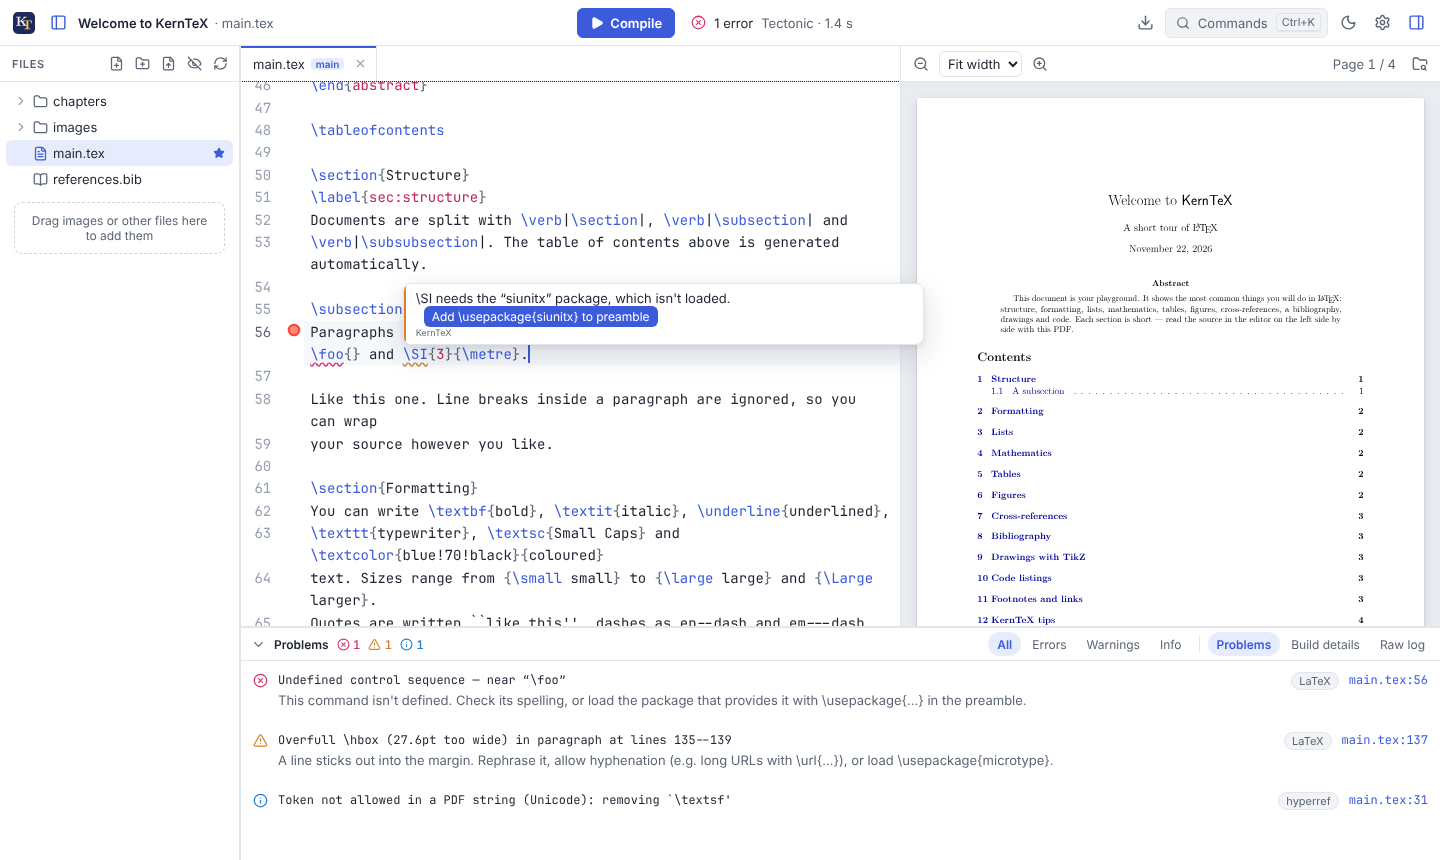
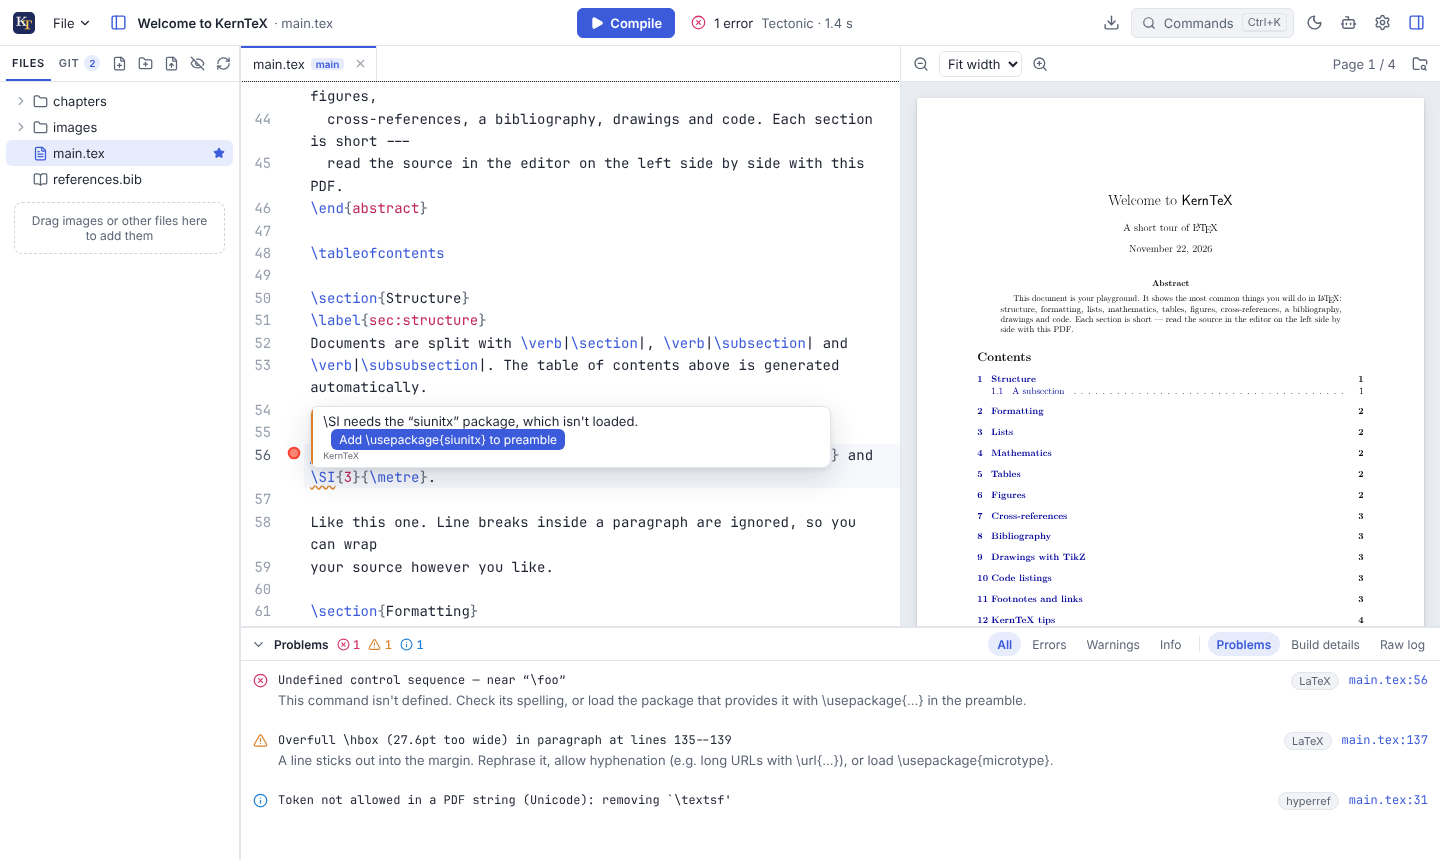
Take README and Store screenshots automatically
The screenshots were taken by hand and no longer showed the current UI
(no File menu, no Git tab). `npm run screenshots` now drives the browser
mock with Playwright through eight scenes and writes the README images
(docs/screenshots, 1440×860) and the Microsoft Store images (docs/store,
1920×1080). Two new scenes: the Git tab with a diff, and the AI
assistants dialog. Clock, locale, time zone and the mock's build time
are fixed, so an unchanged UI gives byte-identical pictures.

The Screenshots workflow runs the script after every release tag and on
demand, and opens a pull request when the pictures changed.

The mock's "last commit" now differs from the welcome project in one
heading and sentence, so the Git diff looks like a real small change.

Claude-Session: https://claude.ai/code/session_01PD3CweD286vQoTenQNSVkC

diff --git a/src/lib/mock/backend.ts b/src/lib/mock/backend.ts
@@ -93,7 +93,9 @@ async function compile(req: CompileRequest): Promise<CompileResult> {
     diagnostics.push({ severity: "info", source: "hyperref", file: "main.tex", line: 31, message: "Token not allowed in a PDF string (Unicode): removing `\\textsf'", hint: null });
   }
   const ok = !diagnostics.some((d) => d.severity === "error");
-  return { ok, canceled: false, pdfPath: `${ROOT}/.kerntex/out/main.pdf`, diagnostics, durationMs: Math.round(performance.now() - start), log: "This is a mock log.\n(./main.tex\nLaTeX Warning: ...\n)", engineLabel: req.engine === "tectonic" ? "Tectonic" : "latexmk (pdfLaTeX)", details: sampleDetails as BuildDetails };
+  // The simulated time, not the measured one, so screenshots don't vary between runs.
+  const durationMs = stages.reduce((sum, [, , ms]) => sum + ms, 0);
+  return { ok, canceled: false, pdfPath: `${ROOT}/.kerntex/out/main.pdf`, diagnostics, durationMs, log: "This is a mock log.\n(./main.tex\nLaTeX Warning: ...\n)", engineLabel: req.engine === "tectonic" ? "Tectonic" : "latexmk (pdfLaTeX)", details: sampleDetails as BuildDetails };
 }
 
 export async function invoke<T>(cmd: string, args: Record<string, any> = {}): Promise<T> {
@@ -237,7 +239,8 @@ export async function listen(event: string, cb: (p: unknown) => void) {
 
 const gitRepo = { repo: !new URLSearchParams(location.search).has("nogit"), remoteUrl: "https://github.com/demo/welcome-to-kerntex.git" as string | null, ahead: 0, identity: true };
 const committed = new Map(files);
-committed.set("main.tex", welcomeTex.replace("\\section{", "\\section{Old ").replace(/\n[^\n]*\n/, "\n"));
+// The last commit had an older heading and sentence: a small, typical diff.
+committed.set("main.tex", welcomeTex.replace("\\section{Structure}", "\\section{Document structure}").replace("The table of contents above is generated automatically.", "The table of contents is generated."));
 committed.delete("chapters/appendix.tex");
 let lastCommit = { hash: "3f2c1ab", subject: "Add bibliography", time: Math.floor(Date.now() / 1000) - 7200 };
 let gitCancel = false;

diff --git a/docs/store-listing.md b/docs/store-listing.md
@@ -97,6 +97,10 @@ Expected result: **3+ / Everyone**.
 | `4-figures.png` | Preview images and insert a figure with one click |
 | `5-build-details.png` | See the engine and every package your document uses |
 | `6-command-palette.png` | Every action one shortcut away |
+| `7-git.png` | See what changed, then commit and push in one click |
+| `8-ai-assistants.png` | Let Claude, Cursor or VS Code help — edits you see and can undo |
+
+Regenerate them with `npm run screenshots` (see [CONTRIBUTING.md](../CONTRIBUTING.md#screenshots)).
 
 **Store logos** (*Bilder für die Store-Anzeige*): optional, but upload them — otherwise the Store scales up the 50×50 logo from the package. Files in `docs/store/logos/`: `logo-300x300.png` (app tile, shown in the Store on Windows 10/11), `logo-150x150.png`, `logo-71x71.png`. For a larger 1:1 box art use `assets/logo.png` (1024×1024).
 
@@ -152,7 +156,7 @@ Add the language under *Store listings → Manage additional languages → Germa
 12. Vorlagen für Artikel, Abschlussarbeiten, Präsentationen und Briefe
 13. Kostenlos und Open Source, geschrieben in Rust – kein Konto, kein Tracking
 
-**Screenshot-Beschriftungen:** 1 „Dateibaum, Editor und Live-PDF nebeneinander“ · 2 „Dunkler Modus, genauso sorgfältig gestaltet“ · 3 „Fehler mit Lösung – fehlende Pakete per Klick ergänzt“ · 4 „Bilder ansehen und mit einem Klick als Abbildung einfügen“ · 5 „Engine und alle verwendeten Pakete auf einen Blick“ · 6 „Jede Aktion nur ein Tastenkürzel entfernt“
+**Screenshot-Beschriftungen:** 1 „Dateibaum, Editor und Live-PDF nebeneinander“ · 2 „Dunkler Modus, genauso sorgfältig gestaltet“ · 3 „Fehler mit Lösung – fehlende Pakete per Klick ergänzt“ · 4 „Bilder ansehen und mit einem Klick als Abbildung einfügen“ · 5 „Engine und alle verwendeten Pakete auf einen Blick“ · 6 „Jede Aktion nur ein Tastenkürzel entfernt“ · 7 „Änderungen sehen, dann mit einem Klick committen und pushen“ · 8 „Claude, Cursor oder VS Code helfen lassen – Änderungen sichtbar und rückgängig zu machen“
 
 **Suchbegriffe:** `LaTeX`, `TeX`, `LaTeX Editor`, `Overleaf`, `Abschlussarbeit`, `PDF`, `BibTeX`
 

diff --git a/README.md b/README.md
@@ -64,6 +64,14 @@ No TeX installation needed: KernTeX ships with [Tectonic](https://tectonic-types
     <td><b>Under the hood, on request.</b> Build details show the engine, its version and every package with its version — no log flood.</td>
     <td><b>Everything one shortcut away.</b> <kbd>Ctrl</kbd>+<kbd>K</kbd> finds every action, with its keyboard shortcut.</td>
   </tr>
+  <tr>
+    <td><img src="docs/screenshots/git.png" alt="Git tab with changed files, a suggested commit message and the diff of main.tex"></td>
+    <td><img src="docs/screenshots/ai.png" alt="AI assistants dialog in dark mode with Claude Code connected and its recent actions"></td>
+  </tr>
+  <tr>
+    <td><b>Git built in.</b> See what changed, get a suggested commit message, then <i>Commit &amp; Push</i> in one click.</td>
+    <td><b>Works with AI assistants.</b> Claude Code, Cursor or VS Code can read, edit and compile your project — every edit visible and undoable.</td>
+  </tr>
 </table>
 
 ## Built with

diff --git a/CONTRIBUTING.md b/CONTRIBUTING.md
@@ -46,6 +46,18 @@ Set `KERNTEX_TECTONIC=/path/to/tectonic` to run the Tectonic end-to-end test loc
 - New dependencies only when they clearly save work; justify each one in the PR description.
 - Log-parser changes need a test with a real log excerpt.
 
+## Screenshots
+
+The images in the README (`docs/screenshots/`) and for the Microsoft Store (`docs/store/`, 1920×1080) are taken automatically from the browser mock, so they can be refreshed whenever the UI changes:
+
+```sh
+npm i --no-save playwright && npx playwright install chromium   # once
+npm run screenshots              # all scenes
+npm run screenshots -- git dark  # only some
+```
+
+The scenes are defined in `scripts/screenshots.mjs`. The GitHub workflow *Screenshots* runs the same script (by hand, and after every release) and opens a pull request when the pictures changed.
+
 ## Style
 
 - English in code, comments, commits and docs.
